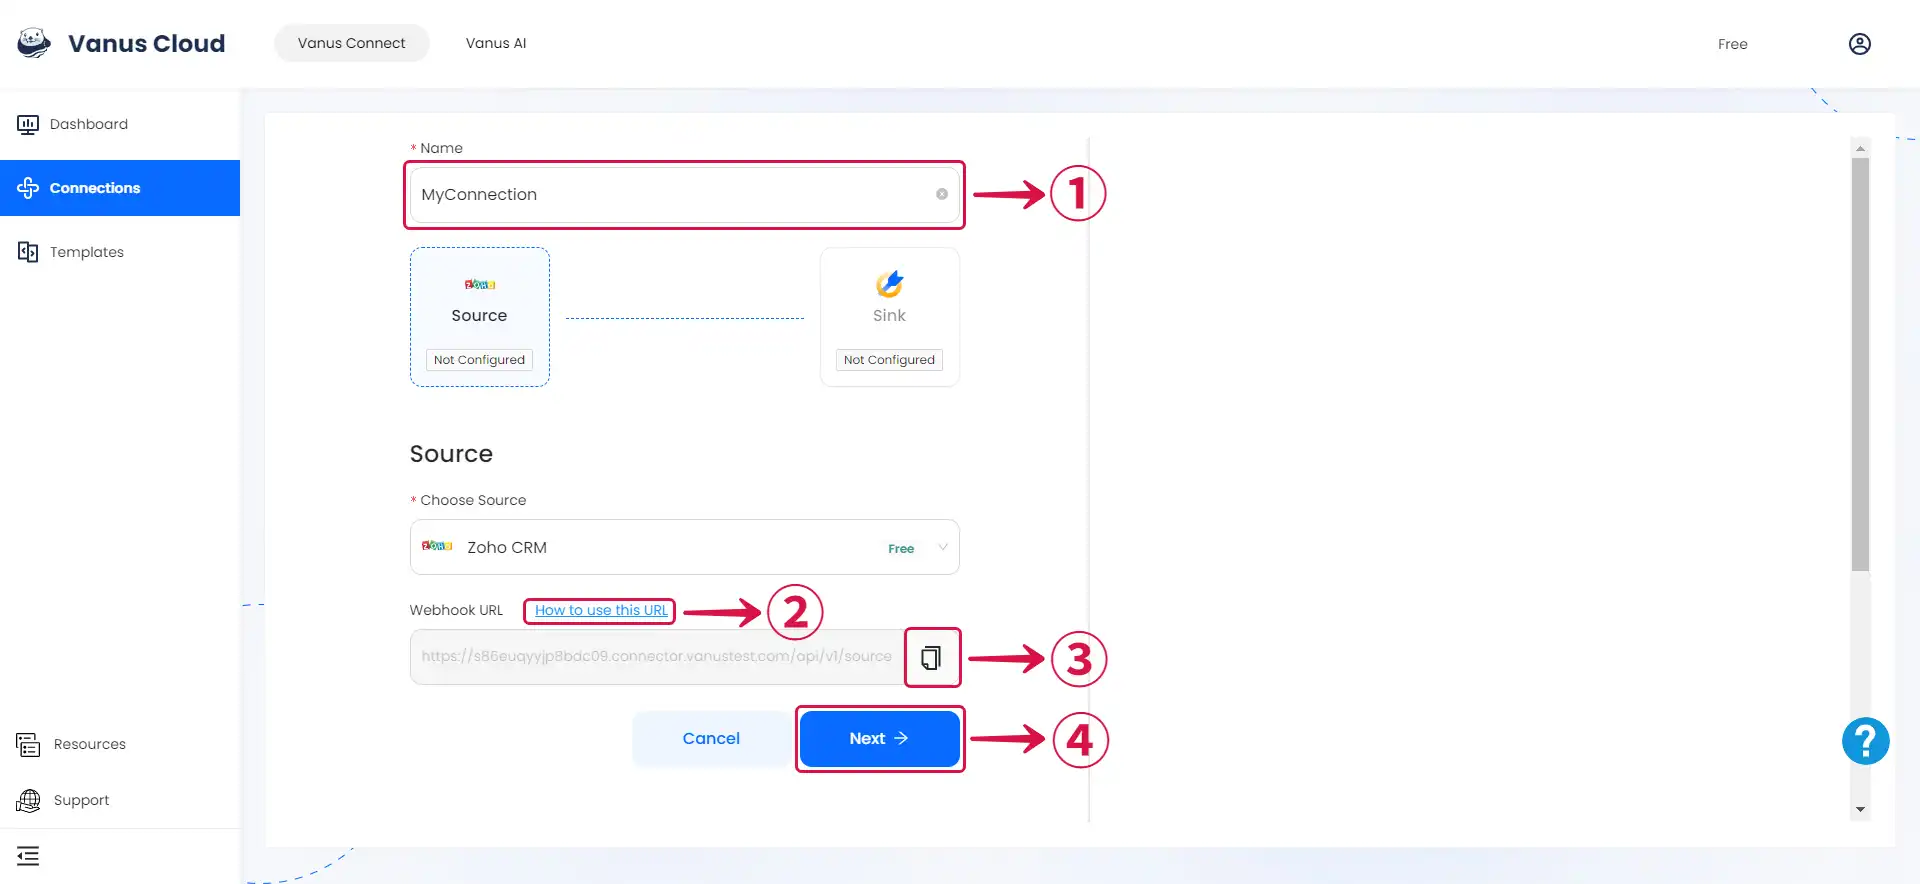
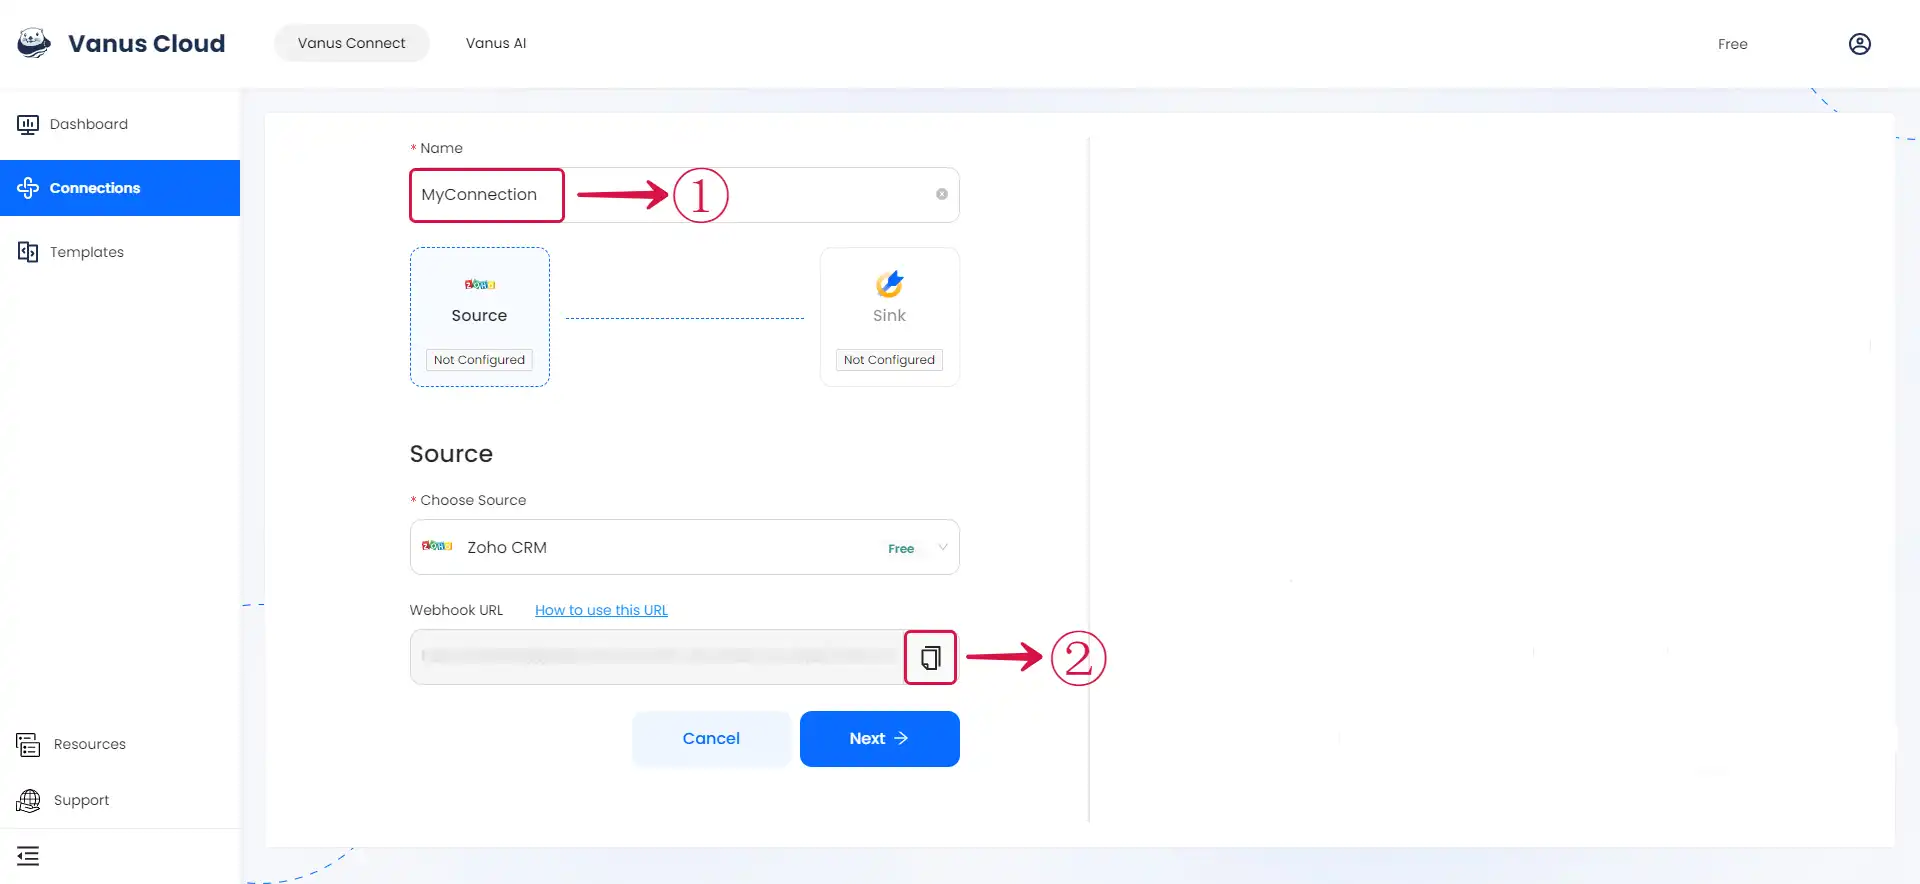
Docs: Zoho Source Connector (#727)
* Docs: Zoho Source Connector

diff --git a/content/vanus-connect/connector-guides/source/zoho-crm/setup.md b/content/vanus-connect/connector-guides/source/zoho-crm/setup.md
@@ -11,7 +11,7 @@ The Zoho CRM Source enables you to establish an endpoint for receiving events fr
 ## Prerequisites
 
 - A [**Vanus Cloud account**](https://cloud.vanus.ai)
-- A Zoho CRM account
+- A [Zoho CRM account](https://crm.zoho.com/crm/org813836165/tab/Home/begin)
 
 ---
 
@@ -21,15 +21,106 @@ The Zoho CRM Source enables you to establish an endpoint for receiving events fr
 
 To obtain Zoho CRM events in Vanus Connect, follow these steps:
 
-![zohocrm-source-1](images/zohocrm-source-1.webp)
-
 - Write a **Name**① for your connection in Vanus Connect.
 
-- Open the **How to use this URL**② document in a new tab to see all the details on how to complete the connection.
+- Copy the Webhook URL by clicking on the **copy icon**②
 
-- Copy the Webhook URL by clicking on the **copy icon**③
+![zohocrm-source-1](images/zohocrm-source-1.webp)
 
-- Click **Next**④ and continue the configuration.
+
+### Configure Zoho CRM to Send Webhook Events 
+
+#### Step 1: Configure webhook
+
+1. Log in to your [**Zoho CRM account**](https://crm.zoho.com/crm/org813836165/tab/Home/begin)
+
+2. Navigate to the Setup page by clicking on the **gear icon**①.
+
+![zohocrm-source-2](images/zohocrm-source-2.webp)
+
+3. Click on **Actions**②.
+
+![zohocrm-source-3](images/zohocrm-source-3.webp)
+
+4. Click on **Webhooks**③.
+
+![zohocrm-source-4](images/zohocrm-source-4.webp)
+
+5. Click on the **Configure Webhook**④ button.
+
+![zohocrm-source-5](images/zohocrm-source-5.webp)
+
+6. **Name**⑤ your Webhook, paste the payload URL retrieved from Vanus Connect into the **URL to Notify**⑥ field, and make your **Module**⑦.
+
+![zohocrm-source-6](images/zohocrm-source-6.webp)
+
+7. Click on **Add parameter**⑧ to specify the necessary parameters.
+
+![zohocrm-source-7](images/zohocrm-source-7.webp)
+
+8. Specify the **Body Type**⑨.
+
+![zohocrm-source-8](images/zohocrm-source-8.webp)
+
+:::note
+You can choose to use **Form-Data** or **Raw** from the picklist, to configure the body session.
+:::
+
+- **Raw:** If you choose the Raw Data option as the body type in the text editor, you have the flexibility to write your own data values. You can input data in various **Format**⑩ such as XML, JSON, HTML, or plain text. Additionally, you can utilize the # merge field feature to reference specific field values within the script.
+
+![zohocrm-source-9](images/zohocrm-source-9.webp)
+
+- **Form Data:** This feature enables you to construct the body section of the URL by seamlessly appending the parameter name, parameter type, or parameter value. You can create Form-Data in three distinct ways: **Module Parameters**⑪, **Custom Parameters**⑫, and **User defined Format**⑬.
+
+![zohocrm-source-10](images/zohocrm-source-10.webp)
+
+9. Once you have configured your settings, remember to **Save**⑭ them.
+
+![zohocrm-source-11](images/zohocrm-source-11.webp)
+
+---
+
+#### Step 2: Associate webhook to a workflow rule
+
+1. Select **Workflow Rules**①.
+
+![zohocrm-source-12](images/zohocrm-source-12.webp)
+
+2. Click on **Create Rule**②.
+
+![zohocrm-source-13](images/zohocrm-source-13.webp)
+
+3. Choose your **Module**③, provide a **Rule Name**④, and proceed by selecting **Next**⑤.
+
+![zohocrm-source-14](images/zohocrm-source-14.webp)
+
+4. Select **Record action**⑥.
+
+![zohocrm-source-15](images/zohocrm-source-15.webp)
+
+5. Select the **action**⑦ to record and click **Next**⑧.
+
+![zohocrm-source-16](images/zohocrm-source-16.webp)
+
+6. Specify the **CONDITION**⑨ to be met for the event to be triggered, and then click **Next**⑩.
+
+![zohocrm-source-17](images/zohocrm-source-17.webp)
+
+7. Select **Webhook**⑪.
+
+![zohocrm-source-18](images/zohocrm-source-18.webp)
+
+8. **Select**⑫ the created webhook and click on **Associate**⑬.
+
+![zohocrm-source-19](images/zohocrm-source-19.webp)
+
+9. Click **Save**⑭.
+
+![zohocrm-source-20](images/zohocrm-source-20.webp)
+
+10. Click **Next**⑮ and continue the configuration.
+
+![zohocrm-source-21](images/zohocrm-source-21.webp)
 
 ---
 

diff --git a/content/cloud-docs/source/zoho-crm/setup.md b/content/cloud-docs/source/zoho-crm/setup.md
@@ -6,7 +6,7 @@ hide_title: true
 ### Prerequisites
 
 - A [**Vanus Cloud account**](https://cloud.vanus.ai)
-- A Zoho CRM account
+- A [Zoho CRM account](https://crm.zoho.com/crm/org813836165/tab/Home/begin)
 
 ---
 
@@ -16,21 +16,16 @@ hide_title: true
 
 To obtain Zoho CRM events in Vanus Connect, follow these steps:
 
-![zohocrm-source-1](images/zohocrm-source-1.webp)
-
 - Write a **Name**① for your connection in Vanus Connect.
 
-- Open the **How to use this URL**② document in a new tab to see all the details on how to complete the connection.
+- Copy the Webhook URL by clicking on the **copy icon**②.
 
-- Copy the Webhook URL by clicking on the **copy icon**③
+![zohocrm-source-1](images/zohocrm-source-1.webp)
 
-- Click **Next**④ and continue the configuration.
 
----
+### Configure Zoho CRM to Send Webhook Events 
 
-**Configuring Zoho CRM to Send Webhook Events**
-
-### Step 1: Configure webhook
+#### Step 1: Configure webhook
 
 1. Log in to your [**Zoho CRM account**](https://crm.zoho.com/crm/org813836165/tab/Home/begin)
 
@@ -80,7 +75,7 @@ You can choose to use **Form-Data** or **Raw** from the picklist, to configure t
 
 ---
 
-### Step 2: Associate webhook to a workflow rule
+#### Step 2: Associate webhook to a workflow rule
 
 1. Select **Workflow Rules**①.
 
@@ -117,6 +112,10 @@ You can choose to use **Form-Data** or **Raw** from the picklist, to configure t
 9. Click **Save**⑭.
 
 ![zohocrm-source-20](images/zohocrm-source-20.webp)
+
+10. Click **Next**⑮ and continue the configuration.
+
+![zohocrm-source-21](images/zohocrm-source-21.webp)
 
 ---
 
